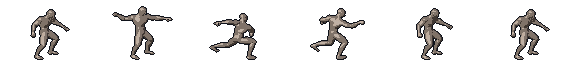
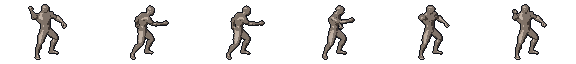
Shift 즉시 은신 자세와 양손 휘두르기 동작으로 교체
- Shift만 눌러도 몸을 낮춘 sneak_idle 자세로 그림, 시트가 없는 캐릭터는 sneak 첫 칸으로 대신
- 두 번째 무료 동작 팩 UAL2(CC0)를 받아 휘두르기를 양손 나무 베기 동작으로 교체
- 후보 비교와 게임 화면 미리보기, 출처와 작업 기준, 피드백 문서 기록

diff --git a/src/character_look.py b/src/character_look.py
@@ -15,14 +15,16 @@ from pathlib import Path
 import pico2d
 
 
-LOOPING = {"idle", "walk", "sneak"}
+LOOPING = {"idle", "walk", "sneak", "sneak_idle"}
+# A pose a character's sheets lack falls back to a close one: (pose, fixed frame or None).
+FALLBACK = {"sneak_idle": ("sneak", 0)}
 
 
 class SheetLook:
     CELL_W, CELL_H = 96, 64
     FEET_FROM_BOTTOM = 4
     # Seconds per frame for looping poses.
-    FRAME_TIME = {"idle": 0.22, "walk": 0.09, "sneak": 0.13}
+    FRAME_TIME = {"idle": 0.22, "sneak_idle": 0.22, "walk": 0.09, "sneak": 0.13}
     # Head and torso of the first idle frame: (left, bottom, width, height) in the cell.
     PORTRAIT = (25, 23, 46, 36)
 
@@ -41,10 +43,13 @@ class SheetLook:
         return min(count - 1, max(0, int(time * count)))
 
     def draw(self, pose, time, x, feet_y, facing):
+        fixed = None
         if pose not in self.sheets:
-            pose = "idle"
+            pose, fixed = FALLBACK.get(pose, ("idle", None))
+            if pose not in self.sheets:
+                pose, fixed = "idle", None
         image = self.sheets[pose]
-        frame = self.frame_of(pose, time)
+        frame = self.frame_of(pose, time) if fixed is None else fixed
         y = feet_y - self.FEET_FROM_BOTTOM + self.CELL_H / 2
         flip = "" if facing > 0 else "h"
         image.clip_composite_draw(
@@ -68,6 +73,8 @@ class LegacyLook:
         self.sprites = sprites    # {"walk", "sneak", "action"} images
 
     def pick(self, pose, time):
+        if pose == "sneak_idle":
+            return "sneak", 0
         if pose in ("walk", "sneak"):
             step = int(time / self.FRAME_TIME[pose]) % len(self.WALK_CYCLE)
             return pose, self.WALK_CYCLE[step]

diff --git a/src/player.py b/src/player.py
@@ -234,7 +234,8 @@ class Player:
 
     def draw_body(self):
         if not self.walk_time:
-            self.draw_pose("idle", self.idle_time)
+            # Holding Shift crouches at once, even before moving.
+            self.draw_pose("sneak_idle" if self.sneaking else "idle", self.idle_time)
         else:
             self.draw_pose("sneak" if self.sneaking else "walk", self.walk_time)
 

diff --git a/assets/characters/CHARACTER_WORKFLOW.md b/assets/characters/CHARACTER_WORKFLOW.md
@@ -88,11 +88,21 @@
      --model "assets/source3d/quaternius_base_characters/Base Characters/Godot - UE/Superhero_Male_FullBody.gltf" \
      --anim-file "assets/source3d/quaternius_animation_library/Unreal-Godot/UAL1_Standard.glb" \
      --out assets/characters/base \
-     --map idle=Idle_Loop walk=Walk_Loop "sneak=Walk_Loop+Crouch_Idle_Loop*0.4" swing=Sword_Attack hurt=Hit_Chest down=Death01 pickup=Fixing_Kneeling@0-20 \
+     --map idle=Idle_Loop walk=Walk_Loop "sneak=Walk_Loop+Crouch_Idle_Loop*0.4" hurt=Hit_Chest down=Death01 pickup=Fixing_Kneeling@0-20 \
      --frames-for idle=4 walk=8 sneak=6 swing=6 hurt=3 down=5 pickup=4 \
      --tilt 20 --head 1.15 --bulk 1.1 --legs 1.0 --shift-for down=16 \
      --flat 0.80,0.62,0.50 --bands 4 --outline
    ```
+   두 번째 동작 팩(UAL2)에서 가져오는 동작은 `--anim-file`만 바꿔 따로 렌더한다(한 번에 한 파일).
+   ```
+   blender -b -P tools/blender/render_sprites.py -- \
+     --model "assets/source3d/quaternius_base_characters/Base Characters/Godot - UE/Superhero_Male_FullBody.gltf" \
+     --anim-file "assets/source3d/quaternius_animation_library_2/Unreal-Godot/UAL2_Standard.glb" \
+     --out assets/characters/base \
+     --map "swing=TreeChopping_Loop@0-20" --frames-for swing=6 \
+     --tilt 20 --head 1.15 --bulk 1.1 --legs 1.0 --flat 0.80,0.62,0.50 --bands 4 --outline
+   ```
+   제자리 은신(`sneak_idle`)은 첫 명령의 `--map`에 `"sneak_idle=Idle_Loop+Crouch_Idle_Loop*0.4"`, `--frames-for`에 `sneak_idle=4`를 더한다.
 4. **미리보기** — 보여 주기 전에 [그림 작업 피드백과 교훈](ART_FEEDBACK.md)의 점검표를 반드시 통과시킨다. `tools/sprites/preview_sheets.ps1 -SheetDir <시트 폴더> -Out assets/characters/previews/<대상>_v<번호>.png -Title <제목>`으로 만들고 사용자에게 보여 준다.
 5. **기준 확정** — 미리보기를 보고 렌더 설정을 조정해 4절에 적는다. 이후 모든 캐릭터는 같은 설정을 쓴다.
 6. **주인공 만들기** — 기본 몸에 방호복·후드·방독면·공기통·방망이를 입혀 `assets/characters/hero/`에 렌더한다.
@@ -107,7 +117,8 @@
 | idle | `Idle_Loop` | 4 | |
 | walk | `Walk_Loop` | 8 | |
 | sneak | `Walk_Loop` 위에 `Crouch_Idle_Loop`를 40% 얹음(`Walk_Loop+Crouch_Idle_Loop*0.4`) | 6 | v4b부터. 무료 팩의 `Crouch_Fwd_Loop`는 쪼그려 앉은 깊은 자세라 "몸을 낮추고 조심스럽게 걷기"로 안 읽힘. 섞을 때는 COMBINE(회전을 곱해 더함)을 써야 함. 단순 평균(REPLACE)은 다리가 뒤로 뒤집힘 |
-| swing | `Sword_Attack` | 6 | 칼 공격을 방망이 휘두르기로 사용 |
+| swing | `TreeChopping_Loop` 0~20프레임 (두 번째 팩 UAL2) | 6 | v4c부터. 똑바로 선 채 두 손을 뒤로 당겼다가 앞으로 휘두르고 돌아옴. 1팩의 `Sword_Attack`은 팔을 벌리고 뛰어드는 칼 동작이라 방망이로 안 읽혀 교체. 후보 비교 `previews/swing_trial.png` |
+| sneak_idle | `Idle_Loop` 위에 `Crouch_Idle_Loop`를 40% 얹음 | 4 | Shift만 누르고 서 있을 때. 시트가 없는 캐릭터는 `sneak` 첫 칸으로 대신함(`character_look.FALLBACK`) |
 | hurt | `Hit_Chest` | 3 | |
 | down | `Death01` | 5 | 마지막 칸 유지 |
 | pickup | `Fixing_Kneeling` 0~20프레임 | 4 | v2부터. 무릎 꿇고 바닥에 손을 뻗는 구간만 사용(v1의 `PickUp_Table`은 테이블 높이라 교체) |
@@ -130,7 +141,7 @@
 
 | 버전 | 미리보기 | 결과 | 다음에 고칠 점 |
 | --- | --- | --- | --- |
-| **기본 몸 v4 (2026-11-10, 현재 기준 캐릭터)** | `previews/base_body_v4.png`, 게임 화면 `previews/base_body_v4_ingame.png` | 카메라를 20° 위에서 내려다보게 하고 비율을 거의 원래대로(머리 1.15·몸 1.1·다리 1.0) 되돌림. 사용자 선택 "B가 제일 낫다". 서 있기·걷기·줍기·쓰러짐은 평범한 사람으로 읽힘 | 점검표 결과: ① 은신이 깊게 쪼그린 자세 → v4b에서 해결 ② 휘두르기가 칼 찌르기처럼 팔을 벌려 방망이 공격으로 안 읽힘 ③ 지금 주인공보다 가늘고 조금 큼(옷·장비로 덩치를 만들 예정) |
+| **기본 몸 v4 (2026-11-10, 현재 기준 캐릭터)** | `previews/base_body_v4.png`, 게임 화면 `previews/base_body_v4_ingame.png` | 카메라를 20° 위에서 내려다보게 하고 비율을 거의 원래대로(머리 1.15·몸 1.1·다리 1.0) 되돌림. 사용자 선택 "B가 제일 낫다". 서 있기·걷기·줍기·쓰러짐은 평범한 사람으로 읽힘 | 점검표 결과: ① 은신이 깊게 쪼그린 자세 → v4b에서 해결 ② 휘두르기가 칼 찌르기처럼 팔을 벌림 → v4c에서 해결 ③ 지금 주인공보다 가늘고 조금 큼(옷·장비로 덩치를 만들 예정) |
 | 기본 몸 v3 (2026-11-10) | `previews/base_body_v3.png` | 다리를 0.8배로 줄여 키가 지금 주인공과 비슷해짐. 쓰러진 자세까지 모든 칸이 바닥선에 닿고 칸 밖으로 잘리지 않음 | ① 휘두르기는 칼 동작이라 팔을 크게 벌림(무기를 쥐여 보고 판단) ② 웅크려 걷기에서 손이 몸 앞으로 늘어짐 |
 | 기본 몸 v2 (2026-11-10) | `previews/base_body_v2.png` | 머리가 커지고 몸이 굵어져 덜 왜소함. 외곽선이 또렷하고, 옆 조명으로 밝은 면·어두운 면이 구분됨. 줍기가 무릎 꿇고 바닥에 손을 뻗는 동작으로 바뀜 | ① 아직 지금 주인공보다 키가 크고 다리가 김(옷을 입힌 뒤 다시 판단) ② 쓰러짐 3~5칸에서 머리가 칸 왼쪽 밖으로 잘림 → 쓰러짐만 칸 안으로 당기는 처리 필요 ③ 휘두르기가 칼 동작이라 팔을 크게 벌림 → 방망이를 쥐여 보고 판단 |
 | 기본 몸 v1 (2026-11-10) | `previews/base_body_v1.png` | 동작 7종이 옆모습·같은 발 위치로 나옴. 걷기·공격·쓰러짐 동작이 자연스러움 | ① 체형이 길고 가늘어(Superhero 비율) 지금 주인공보다 왜소해 보임 → 머리·몸통을 키워 2~3등신 쪽으로 ② 외곽선이 약함 ③ 피부 질감이 작은 크기에서 얼룩처럼 보임 → 단색 위주로 ④ 줍기가 바닥 줍기가 아님 |
@@ -151,3 +162,4 @@
 | 2026-11-10 | 사용자 지적 "아래에서 쳐다보는 느낌", "은신 자세도 이상함". 렌더 스크립트에 `--tilt`(카메라를 위에서 내려다보는 각도) 추가, 시험판 A(카메라만)·B(카메라+비율 되돌림 머리 1.15·몸 1.1·다리 1.0) 렌더 | 비교 `previews/base_body_v4_trial.png`. B가 가장 나음. 원인 분석과 점검표는 [ART_FEEDBACK.md](ART_FEEDBACK.md) |
 | 2026-11-10 | 사용자 선택 "B가 제일 낫다" | 동작 7종을 B 설정으로 다시 렌더해 `base/`를 v4로 교체, 게임에 바로 반영. 점검표로 남은 문제(은신·휘두르기)를 결과 이력에 적음 |
 | 2026-11-11 | 사용자 지시 "은신 먼저". 렌더 스크립트에 동작 섞기(`동작+다른동작*비율`) 추가. 첫 시도(REPLACE)는 다리가 뒤로 뒤집혀 실패, COMBINE으로 바꿔 해결. 시험판 비교 `previews/sneak_trial.png` | 사용자 선택 "B (40%)". `base/sneak.png` 교체(v4b), 게임 화면 `previews/sneak_v4b_ingame.png`. 남은 점: 걸음 중간 칸에서 고개가 조금 숙여짐, 팔이 늘어짐(방망이를 쥐이면 다시 판단) |
+| 2026-11-11 | 사용자 지시 "Shift를 누르면 은신 상태로 바로 돌입, 그다음 휘두르기 고치기" | ① 은신 판정(좀비 감지 거리)은 원래 Shift 즉시였고 그림만 서 있는 자세였음 → 제자리 은신 `sneak_idle` 추가. ② 1팩에 방망이 동작이 없어 두 번째 무료 팩 Universal Animation Library 2 [Standard](CC0)를 받음. 후보 5종 중 나무 베기(양손)로 휘두르기 교체(v4c). 게임 화면 `previews/sneak_idle_swing_ingame.png`. 남은 점: 빨간 휘두르기 궤적선은 예전 주인공 기준 위치라 손과 조금 어긋남 |

diff --git a/assets/characters/ART_FEEDBACK.md b/assets/characters/ART_FEEDBACK.md
@@ -14,6 +14,7 @@ Claude가 만든 그림(캐릭터, 배경, UI 등)을 사용자가 보고 이상
 | 2026-11-10 | v1에서 "왜소함"을 문제로 잡고 비율을 고침 | "처음에 기본에서 뭐가 문제여서 수정하려는 건데" | 지금 주인공이 땅딸막해 보이는 이유(후드·방독면·배낭)를 몸 비율 탓으로 잘못 진단 | 비율 대신 옷으로 덩치를 만들기로 함 | 고치기 전에 '왜 달라 보이는지' 원인을 먼저 확인한다(→ 3-1) |
 | 2026-11-10 | v3를 게임에 넣음(카메라 눈높이 정면) | "뭔가 아래에서 쳐다보는 느낌" | ① 게임 거리는 위에서 내려다보는 시점인데 캐릭터는 수평으로 찍음 ② 원본 서 있기 동작이 가슴을 내밀고 고개를 든 히어로 자세 ③ 큰 머리가 이를 키움 | 렌더 카메라를 20° 위에서 내려다보게(`--tilt 20`), 비율 되돌림 | 카메라 각도를 게임 배경 시점에 맞춘다. 원본 동작의 자세(고개·가슴)를 확인한다(→ 3-2, 3-4) |
 | 2026-11-10 | 은신 = `Crouch_Fwd_Loop` | "은신 자세도 존나 이상함" | 무료 팩의 웅크려 걷기가 거의 쪼그려 앉은 깊은 자세. 큰 머리·굵은 몸까지 더해져 괴물처럼 보임 | v4b: 걷기 위에 웅크려 서기를 40% 얹어(COMBINE) 몸만 낮춘 걷기를 만듦. 사용자 선택 | 동작 이름만 보고 고르지 않는다. 게임에서 그 동작이 '무엇으로 읽혀야 하는지'와 비교한다(→ 3-4) |
+| 2026-11-11 | v4 휘두르기 = `Sword_Attack` | (점검표에서 스스로 발견) 팔을 양옆으로 벌리고 뛰어드는 칼 동작 | 1팩에 방망이 동작이 없음 | 두 번째 무료 팩에서 후보 5종을 렌더해 비교, 나무 베기(양손)로 교체 | 필요한 동작이 없으면 억지로 맞추지 말고 다른 무료 팩부터 찾는다(→ 3-4) |
 | 2026-11-10 | 위 결과들을 그대로 보여 줌 | "너 미적 감각이 떨어지니?" | 결과를 내 기준(칸 안에 들어감, 바닥에 닿음 등 기술 기준)으로만 점검하고, 보기에 어떤지는 점검하지 않음 | 이 문서와 점검표를 만들고, 보여 주기 전에 반드시 통과시키기로 함 | 기술 점검과 별개로 '보기 점검'을 한다(→ 3절 전체) |
 
 ## 2. 왜 문제가 생겼고, 왜 Claude가 몰랐나 (2026-11-10 분석)

diff --git a/assets/source3d/README.md b/assets/source3d/README.md
@@ -6,8 +6,10 @@
 | --- | --- | --- | --- | --- |
 | `quaternius_base_characters/` | Universal Base Characters [Standard] — 리깅된 기본 몸(무료판은 Superhero 남·여), 머리 모양 | [quaternius.itch.io/universal-base-characters](https://quaternius.itch.io/universal-base-characters) (Quaternius) | CC0 1.0 (`License_Standard.txt`) | 2026-11-10 |
 | `quaternius_animation_library/` | Universal Animation Library [Standard] — 동작 43종(대기·걷기·웅크려 걷기·칼 공격·피격·쓰러짐·줍기 등) | [quaternius.itch.io/universal-animation-library](https://quaternius.itch.io/universal-animation-library) (Quaternius) | CC0 1.0 (`License.txt`) | 2026-11-10 |
-| `_downloads/` | 위 두 팩의 원본 압축 파일 | 같음 | 같음 | 2026-11-10 |
+| `quaternius_animation_library_2/` | Universal Animation Library 2 [Standard] — 근접 공격(칼 베기·훅·나무 베기), 좀비 걷기·할퀴기, 밀려남 등. 1팩과 같은 뼈대 | [opengameart.org/content/universal-animation-library-2](https://opengameart.org/content/universal-animation-library-2) (Quaternius) | CC0 1.0 (`License.txt`) | 2026-11-11 |
+| `_downloads/` | 위 팩들의 원본 압축 파일 | 같음 | 같음 | 2026-11-10 ~ 11 |
 
 - 기본 몸 파일: `quaternius_base_characters/Base Characters/Godot - UE/Superhero_Male_FullBody.gltf`
 - 동작 파일: `quaternius_animation_library/Unreal-Godot/UAL1_Standard.glb` (루트 모션 없는 판. `_RM`은 루트 모션 포함판)
-- 두 팩은 같은 뼈 이름을 써서, 동작을 기본 몸에 그대로 붙일 수 있다.
+- 동작 파일 2: `quaternius_animation_library_2/Unreal-Godot/UAL2_Standard.glb`
+- 세 팩은 같은 뼈 이름을 써서, 동작을 기본 몸에 그대로 붙일 수 있다.

diff --git a/PLAN.md b/PLAN.md
@@ -89,6 +89,8 @@
 
 - **2026-11-10 · 지적받은 점은 따로 기록하고 보완** — "내가 봤을 때 이상한 부분 … 내가 알려 주잖아. 이렇게 작업하는 것들을 md에 따로 저장해 둬, 그리고 보완해. 다음부터 잘하게." "문제가 발생한 이유가 뭐고, 너가 왜 몰랐는지 이유를 분석해서 보고해." 사용자의 지적, 원인, 고친 방법, 교훈, 보여 주기 전 점검표를 [그림 작업 피드백과 교훈](assets/characters/ART_FEEDBACK.md)에 모으고, 결과를 보여 주기 전에 매번 점검표를 통과시킨다.
 
+- **2026-11-11 · Shift 즉시 은신, 그다음 휘두르기** — "Shift를 누르면 은신 상태로 돌입을 바로 하죠, 그다음에 휘두르기 고치기 하세요." 서 있을 때도 Shift를 누르는 즉시 몸을 낮춘 자세(`sneak_idle`)로 그리고, 휘두르기는 두 번째 무료 동작 팩(UAL2, CC0)의 양손 나무 베기 동작으로 바꾼다. 기록은 [캐릭터 제작 작업 기준](assets/characters/CHARACTER_WORKFLOW.md).
+
 ## Gemini와의 작업 분담
 
 - 이미지 후보 생성이나 서로 독립적인 초안 작업은 Gemini API에 맡길 수 있다. 예를 들어 NPC 스프라이트와 아이템 아이콘은 각각 규격을 정해 병렬로 요청한다. 같은 동작의 연속 프레임은 한 시트로 요청해 일관성을 맞춘다.

diff --git a/docs/references/ASSETS.md b/docs/references/ASSETS.md
@@ -18,4 +18,5 @@
 
 - Quaternius, Universal Base Characters [Standard], https://quaternius.itch.io/universal-base-characters , CC0 1.0. 기본 몸으로 사용.
 - Quaternius, Universal Animation Library [Standard], https://quaternius.itch.io/universal-animation-library , CC0 1.0. 대기·걷기·웅크려 걷기·공격·피격·쓰러짐·줍기 동작으로 사용.
+- Quaternius, Universal Animation Library 2 [Standard], https://opengameart.org/content/universal-animation-library-2 , CC0 1.0. 휘두르기(나무 베기 동작) 등으로 사용.
 - 이 3D 원본을 Blender로 렌더해 만든 스프라이트 시트는 `assets/characters/` 아래에 있다. 원본 목록과 받는 방법은 `assets/source3d/README.md`.
